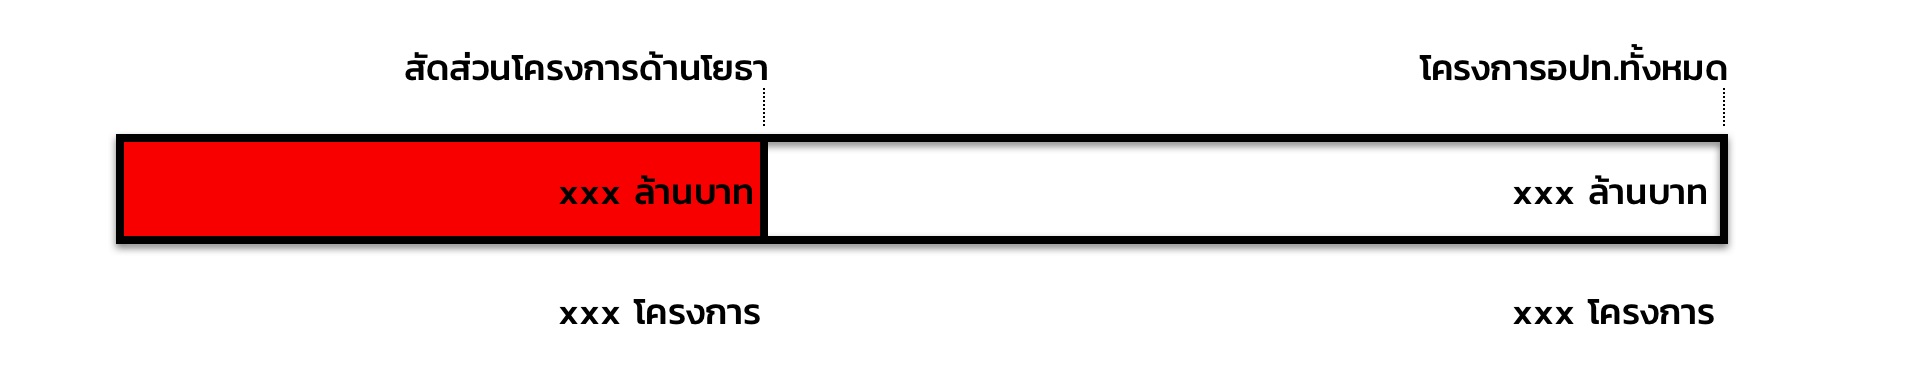
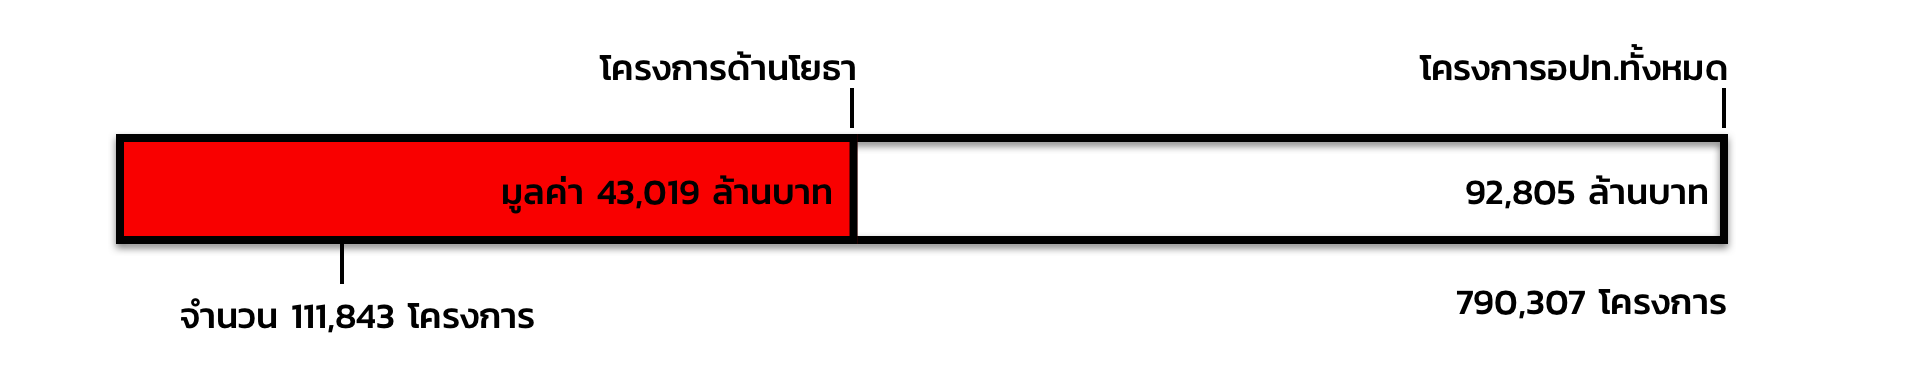
update

diff --git a/src/shared/variables.js b/src/shared/variables.js
@@ -22,7 +22,14 @@ const content = {
 ประเทศไทยกำลังจะจัดให้มีการเลือกตั้งท้องถิ่นภายในปี 2563 หลังจากว่างเว้นไปนานกว่า 5 ปี โดยองค์กรปกครองส่วนท้องถิ่น (อปท.) จำนวน 7,852 แห่ง จะมีการเลือกตั้งผู้ดำรงตำแหน่งไม่ต่ำกว่า 1 แสนคนนั้น หลายฝ่ายโดยเฉพาะคนไทยผู้มีสิทธิ์ไปลงคะแนนเสียงเลือกผู้แทนในพื้นที่ รู้หรือไม่ว่าที่ผ่านมางบประมาณท้องถิ่นปีละไม่ต่ำกว่า ${utils.moneyFormat(totalLocalAuthorOrgBudget/1e6)}
 `,
     section2: `
-    จนพบว่าองค์การบริหารท้องถิ่นมีการใช้จ่ายเงินงบประมาณใน ปี 2561 จำนวน ${utils.moneyFormat(totalLocalAuthorOrgBudget/1e6)} และจากการวิเคราะห์ข้อมูลตัวเลขเชิงลึกพบว่าโครงการใช้จ่ายเงิน มีความเกี่ยวข้องกับการจัดซื้อจัดจ้างด้านโยธาถึง ${Math.floor(DataGlobalStats.totalCivilProjects)} โครงการ หรือคิดเป็น ${Math.floor(DataGlobalStats.totalCivilProjects/DataGlobalStats.totalProjects*100)}% ของโครงการทั้งหมด เช่น การสร้างถนน การซ่อมถนน การขุดถนน การถมลูกรัง การาดคอนกรีต และขุดท่อ คิดเป็นมูลค่ารวมทั้งสิ้น ${utils.moneyFormat(DataGlobalStats.sumCivilProjectValue / 1e6)} จากงบประมาณโครงการของอปท. ทั้งหมด ${utils.moneyFormat(DataGlobalStats.sumProjectValue / 1e6)}
+    จนพบว่าองค์การบริหารท้องถิ่นมีการใช้จ่ายเงินงบประมาณใน ปี 2561 จำนวน ${utils.moneyFormat(totalLocalAuthorOrgBudget/1e6)}
+    และจากการวิเคราะห์ข้อมูลตัวเลขเชิงลึกพบว่าโครงการใช้จ่ายเงิน มีความเกี่ยวข้องกับการจัดซื้อจัดจ้างด้านโยธา เช่น การสร้างถนน,
+    การซ่อมถนน, การขุดถนน, การถมลูกรัง, และการราดคอนกรีต เป็นต้น
+    ถึง ${utils.moneyFormat(DataGlobalStats.sumCivilProjectValue/ 1e6)} จาก ${utils.moneyFormat(DataGlobalStats.sumProjectValue/1e6)}
+    ซึ่งคิดเป็น ${Math.floor(DataGlobalStats.sumCivilProjectValue/DataGlobalStats.sumProjectValue*100)}%
+    ของมูลค่าโครงการอปท.ทั้งหมด  ที่น่าสนใจคือ ถ้าดูตามจำนวนโครงการ โครงการเกี่ยวกับโยธามีเพียง ${utils.numFormatInt(DataGlobalStats.totalCivilProjects)} โครงการ
+    จากโครงการของอปท.ทั้งหมด ${utils.numFormatInt(DataGlobalStats.totalProjects)} โครงการ
+    ซึ่งคิดเป็นเพียง ${Math.floor(DataGlobalStats.totalCivilProjects / DataGlobalStats.totalProjects* 100)}% เท่านั้น
 `,
     section3: `
     นอกจากนี้ การประมวลข้อมูลเชิงลึกข้างต้นเมื่อเน้นสืบหาโครงการขนาดใหญ่มูลค่างบประมาณเกิน 100 ล้านบาทขึ้นไป ทำให้พบ “รูปแบบการจัดซื้อจัดจ้างว่ามีทั้งหมด 14 รูปแบบ” โดยมี “6 รูปแบบ” ที่นิยมมากที่สุดเรียงตามลำดับดังรูป
@@ -36,6 +43,9 @@ const content = {
     sectionEmpty: `
 ต้องเขียนเพิ่ม
 `,
+    remark: `
+ข้อมูลที่ใช้ในการวิเคราะห์ถูกดึงจากเว็บไซต์ "ภาษีไปไหน" อาจมีปัญหาทางด้านเทคนิคเกิดขึ้นและทำให้ข้อมูลไม่ครบถ้วน หากพบข้อผิดพลาดหรือข้อเสนอแนะ เรายินดีรับฟังเพื่อปรับปรุงและแก้ไข
+`
 }
 
 export {

diff --git a/src/pages/index.js b/src/pages/index.js
@@ -48,6 +48,7 @@ const Index = () => {
                 <div css={{marginTop: "5px"}}>
                     <b>วันที่: </b>{variables.date}
                 </div>
+                <b>หมายเหตุ: </b>{variables.content.remark}
             </div>
         </TextBox>
         <br/>
@@ -58,7 +59,6 @@ const Index = () => {
         <TextBox name="รายละเอียดงบประมาณ อปท.">{variables.content.section2}</TextBox>
         <TextBox name="รูปแบบการจัดซื้อจัดจ้าง">{variables.content.section3}</TextBox>
         <TextBox>
-            {/* <img width="100%" src="/figures/type-procurement.png"/> */}
             <MethodProfile/>
         </TextBox>
         <TextBox name="บทสัมภาษณ์"> {variables.content.section5}</TextBox>
@@ -69,18 +69,16 @@ const Index = () => {
         <TextBox>
             <AuthorityRanking/>
         </TextBox>
-        <TextBox name="บริษัท ที่เจาะมากสุด 5 แห่ง">{variables.content.sectionEmpty}</TextBox>
+        <TextBox name="บริษัท ที่เจาะมากสุด 5 แห่ง">บริษัทที่มีมูลค่าโครงการรวมทั้งหมดมากกว่า 100 ล้าน {variables.content.sectionEmpty}</TextBox>
         <TextBox>
-            {/* <img  width="100%" src="/figures/local-org-view.png"/> */}
             <CompanyRanking/>
         </TextBox>
         <TextBox name="การกระจายตัวของบริษัทในแต่ละภูมิภาค">{variables.content.sectionEmpty}</TextBox>
         <TextBox>
             <CompanyDistribution/>
         </TextBox>
-        <TextBox name="ลองสุ่มดูบริษัทอื่นๆ ที่มี รายได้มากกว่า x บาท">{variables.content.sectionEmpty}</TextBox>
+        <TextBox name="ลองสุ่มดูบริษัทอื่นๆ ที่มี รายได้มากกว่า 100 บาท"> {variables.content.sectionEmpty}</TextBox>
         <TextBox>
-            {/* <img  width="100%" src="/figures/org-details.png"/> */}
             <CompanyInfo/>
         </TextBox>
         <TextBox name="บทสรุป">
